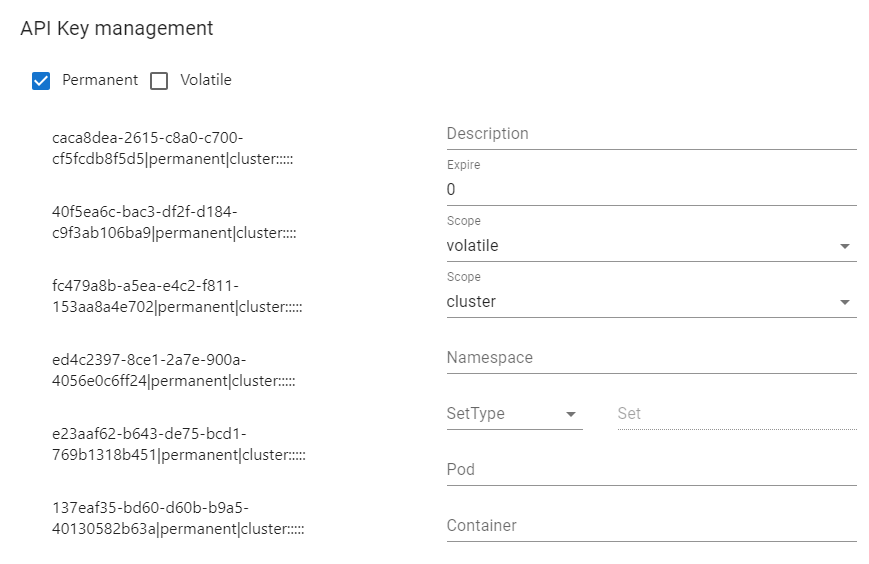
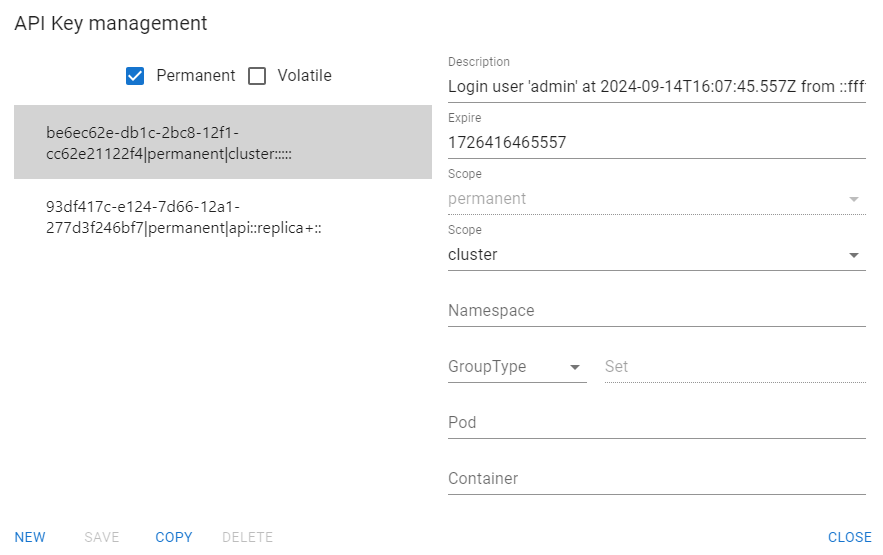
update api management

diff --git a/front/src/components/ManageApiSecurity.tsx b/front/src/components/ManageApiSecurity.tsx
@@ -54,9 +54,9 @@ const ManageApiSecurity: React.FC<any> = (props:IProps) => {
             setGroupName('');
         }
         else {
-            var [setType, setName]=res.set.split('+');
-            setGroupType(setType);
-            setGroupName(setName);
+            var [groupType, groupName]=res.set.split('+');
+            setGroupType(groupType);
+            setGroupName(groupName);
         }
         setPod(res.pod);
         setContainer(res.container);
@@ -144,7 +144,7 @@ const ManageApiSecurity: React.FC<any> = (props:IProps) => {
                         <TextField value={description} onChange={(e) => setDescrition(e.target.value)} variant='standard' label='Description'></TextField>
                         <TextField value={expire} onChange={(e) => setExpire(+e.target.value)} variant='standard' label='Expire'></TextField>
                         <FormControl variant='standard'>
-                            <InputLabel id='keytype'>Scope</InputLabel>
+                            <InputLabel id='keytype'>Key type</InputLabel>
                             <Select labelId='keytype' value={keyType} onChange={(e) => setKeyType(e.target.value)} disabled={true}>
                                 { ['volatile','permanent'].map( (value:string) => {
                                     return <MenuItem key={value} value={value}>{value}</MenuItem>
@@ -152,8 +152,8 @@ const ManageApiSecurity: React.FC<any> = (props:IProps) => {
                             </Select>
                         </FormControl>
                         <FormControl variant='standard'>
-                            <InputLabel id='scope'>Scope</InputLabel>
-                            <Select labelId='scope' value={scope} onChange={(e) => setScope(e.target.value)} >
+                            <InputLabel id='type'>Type</InputLabel>
+                            <Select labelId='type' value={scope} onChange={(e) => setScope(e.target.value)} >
                                 { ['cluster','api','restart','view'].map( (value:string) => {
                                     return <MenuItem key={value} value={value}>{value}</MenuItem>
                                 })}
@@ -163,8 +163,8 @@ const ManageApiSecurity: React.FC<any> = (props:IProps) => {
                         <Grid container direction='row'>
                             <Grid item xs={4}>
                                 <FormControl variant='standard' style={{width:'100%'}}>
-                                    <InputLabel id='settype'>SetType</InputLabel>
-                                    <Select labelId='settype' value={groupType} onChange={(e) => setGroupType(e.target.value) }>
+                                    <InputLabel id='grouptype'>GroupType</InputLabel>
+                                    <Select labelId='grouptype' value={groupType} onChange={(e) => setGroupType(e.target.value) }>
                                     { ['','replica','stateful','daemon'].map( (value:string) => {
                                         return <MenuItem key={value} value={value}>{value}</MenuItem>
                                     })}
@@ -173,7 +173,7 @@ const ManageApiSecurity: React.FC<any> = (props:IProps) => {
                             </Grid>
                             <Grid item xs={0.5}></Grid>
                             <Grid item xs={7.5}>
-                                <TextField value={groupName} onChange={(e) => setGroupName(e.target.value)} disabled={groupType===''} variant='standard' label='Set' style={{width:'100%'}}></TextField>
+                                <TextField value={groupName} onChange={(e) => setGroupName(e.target.value)} disabled={groupType===''} variant='standard' label='Group name' style={{width:'100%'}}></TextField>
                             </Grid>
                         </Grid>
                         <TextField value={pod} onChange={(e) => setPod(e.target.value)} variant='standard' label='Pod'></TextField>

diff --git a/back/src/tools/KubernetesOperations.ts b/back/src/tools/KubernetesOperations.ts
@@ -60,24 +60,24 @@ export const pauseDeployment = async (appsApi:AppsV1Api, namespace:string, deplo
  */
 export const getPodsFromGroup = async (coreApi:CoreV1Api, appsApi:AppsV1Api, namespace:string, group:string) => {
     var response:any;
-    var setName, setType;
+    var groupName, groupType;
     if (group.includes('+'))
-        [setType, setName]=group.split('+');
+        [groupType, groupName]=group.split('+');
     else
-        [setType, setName]=['deployment', group];
+        [groupType, groupName]=['deployment', group];
 
-    switch (setType) {
+    switch (groupType) {
         case'deployment':
-            response=await appsApi.readNamespacedDeployment(setName, namespace);
+            response=await appsApi.readNamespacedDeployment(groupName, namespace);
             break;
         case'replica':
-            response=await appsApi.readNamespacedReplicaSet(setName, namespace);
+            response=await appsApi.readNamespacedReplicaSet(groupName, namespace);
             break;
         case'daemon':
-            response=await appsApi.readNamespacedDaemonSet(setName, namespace);
+            response=await appsApi.readNamespacedDaemonSet(groupName, namespace);
             break;
         case'stateful':
-            response=await appsApi.readNamespacedStatefulSet(setName, namespace);
+            response=await appsApi.readNamespacedStatefulSet(groupName, namespace);
             break;
     }
 

diff --git a/front/src/model/AccessKey.ts b/front/src/model/AccessKey.ts
@@ -53,17 +53,17 @@ function parseResource (key:string) : ResourceIdentifier {
     }
 }
 
-function buildResource (scope:string, namespace:string, setType:string, setName:string, pod:string, container:string) : string {
-    var set=`${setType}+${setName}`;
-    if (set==='+') set='';
-    return `${scope}:${namespace}:${set}:${pod}:${container}`;
+function buildResource (scope:string, namespace:string, groupType:string, groupName:string, pod:string, container:string) : string {
+    var group=`${groupType}+${groupName}`;
+    if (group==='+') group='';
+    return `${scope}:${namespace}:${group}:${pod}:${container}`;
 }
 
 /*
     ResourceIdentifier is composed by:
 
         scope: one of: cluster(5), namespace(4), set(3), pod(2), container(1)
-        setType is the type of set: replica, stateful or daemon      
+        groupType is the type of set: replica, stateful or daemon      
         The rest of fields are names according to this rules:
             - it can be a direct name, like: 'mynamespace', 'your-replica-set', 'our-pod'...
             - it can be an '*' (without the apostrophe or ''), indicating any resource of the scope is valid

diff --git a/front/src/components/ManageUserSecurity.tsx b/front/src/components/ManageUserSecurity.tsx
@@ -149,8 +149,8 @@ const ManageUserSecurity: React.FC<any> = (props:IProps) => {
                                 <Grid container direction='row'>
                                     <Grid item xs={4}>
                                         <FormControl variant='standard' style={{width:'100%'}}>
-                                            <InputLabel id='settype'>SetType</InputLabel>
-                                            <Select labelId='settype' value={groupType} onChange={(e) => setGroupType(e.target.value) }>
+                                            <InputLabel id='grouptype'>GroupType</InputLabel>
+                                            <Select labelId='grouptype' value={groupType} onChange={(e) => setGroupType(e.target.value) }>
                                             { ['','replica','stateful','daemon'].map( (value:string) => {
                                                 return <MenuItem key={value} value={value}>{value}</MenuItem>
                                             })}

diff --git a/back/src/model/AccessKey.ts b/back/src/model/AccessKey.ts
@@ -52,8 +52,8 @@ function parseResource (key:string) : ResourceIdentifier {
     }
 }
 
-function buildResource (scope:string, namespace:string, setType:string, setName:string, pod:string, container:string) : string {
-    return `${scope}:${namespace}:${setType}+${setName}:${pod}:${container}`;
+function buildResource (scope:string, namespace:string, groupType:string, groupName:string, pod:string, container:string) : string {
+    return `${scope}:${namespace}:${groupType}+${groupName}:${pod}:${container}`;
 }
 
 /*

diff --git a/back/src/version.ts b/back/src/version.ts
@@ -1,1 +1,1 @@
-export const VERSION:string="0.1.222"; 
+export const VERSION:string="0.2.2"; 

diff --git a/front/src/version.ts b/front/src/version.ts
@@ -1,1 +1,1 @@
-export const VERSION:string="0.1.222"; 
+export const VERSION:string="0.2.2"; 

diff --git a/docs/apimanagement.md b/docs/apimanagement.md
@@ -1,42 +1,50 @@
 # API management [PENDING RE-WRITING]
-Access to Kwirth is secured by the use of APIs. When you access Kwirth via its own frontend application, this React application obtains an API key fro you to work with Kwirth.
+Access to Kwirth is performed by using APIs that are secured. When you access Kwirth via its own frontend application, this React application obtains an API key for you to work with Kwirth.
 
-But there are situations in which you want to create and share an API for another external use. In this case, you need to use this API Management tool.
+But there are situations in which you want to create and share an API for another external use, like integrating [Backstage Kubelog](https://github.com/jfvilas/kubelog), for example. In this case, you need to use this API Management tool.
 
 ![api-management](./_media/api-management.png)
 
+The API management tool (names **API Security**) is on the main menu (the burger icon) but is only vicible to admins and users with the API scope.
+![api security menu option](api-security-menu-option.png)
+
+
+## API Keys explained
+
 An API key requires following information to be created:
 
-- **Description**. For obious reasons it is important to write down what an API key has been created for,
+- **Description**. For obious reasons it is important to write down what an API key has been created for.
 - **Expire**. In milliseconds, absolute expire moment for the API Key.
-- **Type**. There are 2 types: 'permanent', that are stored in a secure site and keep alive even if Kwirth crashes, or 'volatile' they only live in memory, they are not persisted to any storage.
-- **Scope**. As explained in other parts of this documentation, the scope is used to decide what resrouces a user can access. This are the valid scopes and their meaning:
-    - cluster: this scope means you can access log all along the cluster
-    - namespace: this scopes reduces de number of pods an API key can access to the pods included in the namespace list (see below).
-    - set
-    - pod
-    - container
-    - filter
-- **Namespace**. It's  **a comma separated list** of namespaces (or just a single one, or nothing)
-- **Set Type**. It's the type of set (replica, stateful or daemon) that you want to give access.
-- **Set Name**. It's a comma separated list of sets the API can have access to, these can be replica sets, stateful sets or daemon sets.
+- **Type**. There are 2 types: 'permanent', that are stored in a secure site and keep alive even if Kwirth crashes, or 'volatile' they only live in memory, they are not persisted to any storage. When you create Key s manually you can only create 'permanent' keys. 'volatile' keys are expected to be created by other applications.
+- **Scope**. As explained in other parts of this documentation, the scope is used to decide what an API Key owner can do with the resuources declared in the key. This are the valid scopes and their meaning:
+    - cluster: this scope means you can permform any Kwirth action on the cluster.
+    - api: this scopes allows you to manage api keys
+    - restart: this scope allows the owner of the key restartin pods or deployments in the cluster where de key has been created
+    - view: this scope allows viewing logs (is the more basic scope)
+- **Namespace**. It's  **a comma separated list** of namespaces (or just a single one, or nothing).
+- **Group Type**. It's the type of set (replica, stateful or daemon) that you want to give access.
+- **Group Name**. It's a comma separated list of sets the API can have access to, these can be replica sets, stateful sets or daemon sets.
 - **Pod**. A comma separated list of pods.
 - **Container**. A comma separated list of container inside a pod that an API key can access.
 
-On the left side of the dialog you can see a list of currently existing API keys, an d yu can filter the list by selecting Permanent or Volatile on top of the list.
+On the left side of the dialog you can see a list of currently existing API keys, and you can filter the list by selecting Permanent or Volatile on top of the list.
+
+The union of key type, scope, namespace, group (type and name), pod and container is what we call an **ACCESS KEY**. It is important to differentiate an API Key (which contains a date), and the namespace, group, pod and container together form what we call the **RESOURCE ID**.
+
+That is, an API Key contains an **expiration date and an Access Key**. And an access key contains the **type, the scope and the resource id**. And the resource id is a declaration of a set of names (nad list of names) of objects from the cluster that match with the names declared in the resource id.
 
 ## Example
-If you want to concede permissions to an external application to access all logs in your 'production' namespace you shoult create an API key like this:
+If you want to concede permissions to an external application like Kubelog to view all logs in your 'production' namespace you shoult create an API key like this:
 
 ![production-logs](./_media/production-logs.png)
 
 Which would take this aspect:
 
 ```code
-4cccfd58-a823-f1a1-5f4b-756d753b3bc3|permanent|namespace:production:::
+93df417c-e124-7d66-12a1-277d3f246bf7|permanent|view:production:::
 ```
 
-This is the API key you should use in your client application.
+This is the API key you should configure in your client application.
 
 ## Multi cluster support
-When you use an instance of Kwirth as a gate to a multi-cluster log management system, you need to add clusters, as shown in (cluster managment)[clustermanagemnet]. For a cluster to be added to another Kwirth instance, you must previously create an API like we've just explained, but the scop must be **'cluster'**.
+When you use an instance of Kwirth as a gate to a multi-cluster log management system, you need to add clusters, as shown in (cluster managment)[clustermanagemnet]. For a cluster to be added to another Kwirth instance, you must previously create an API like we've just explained.
